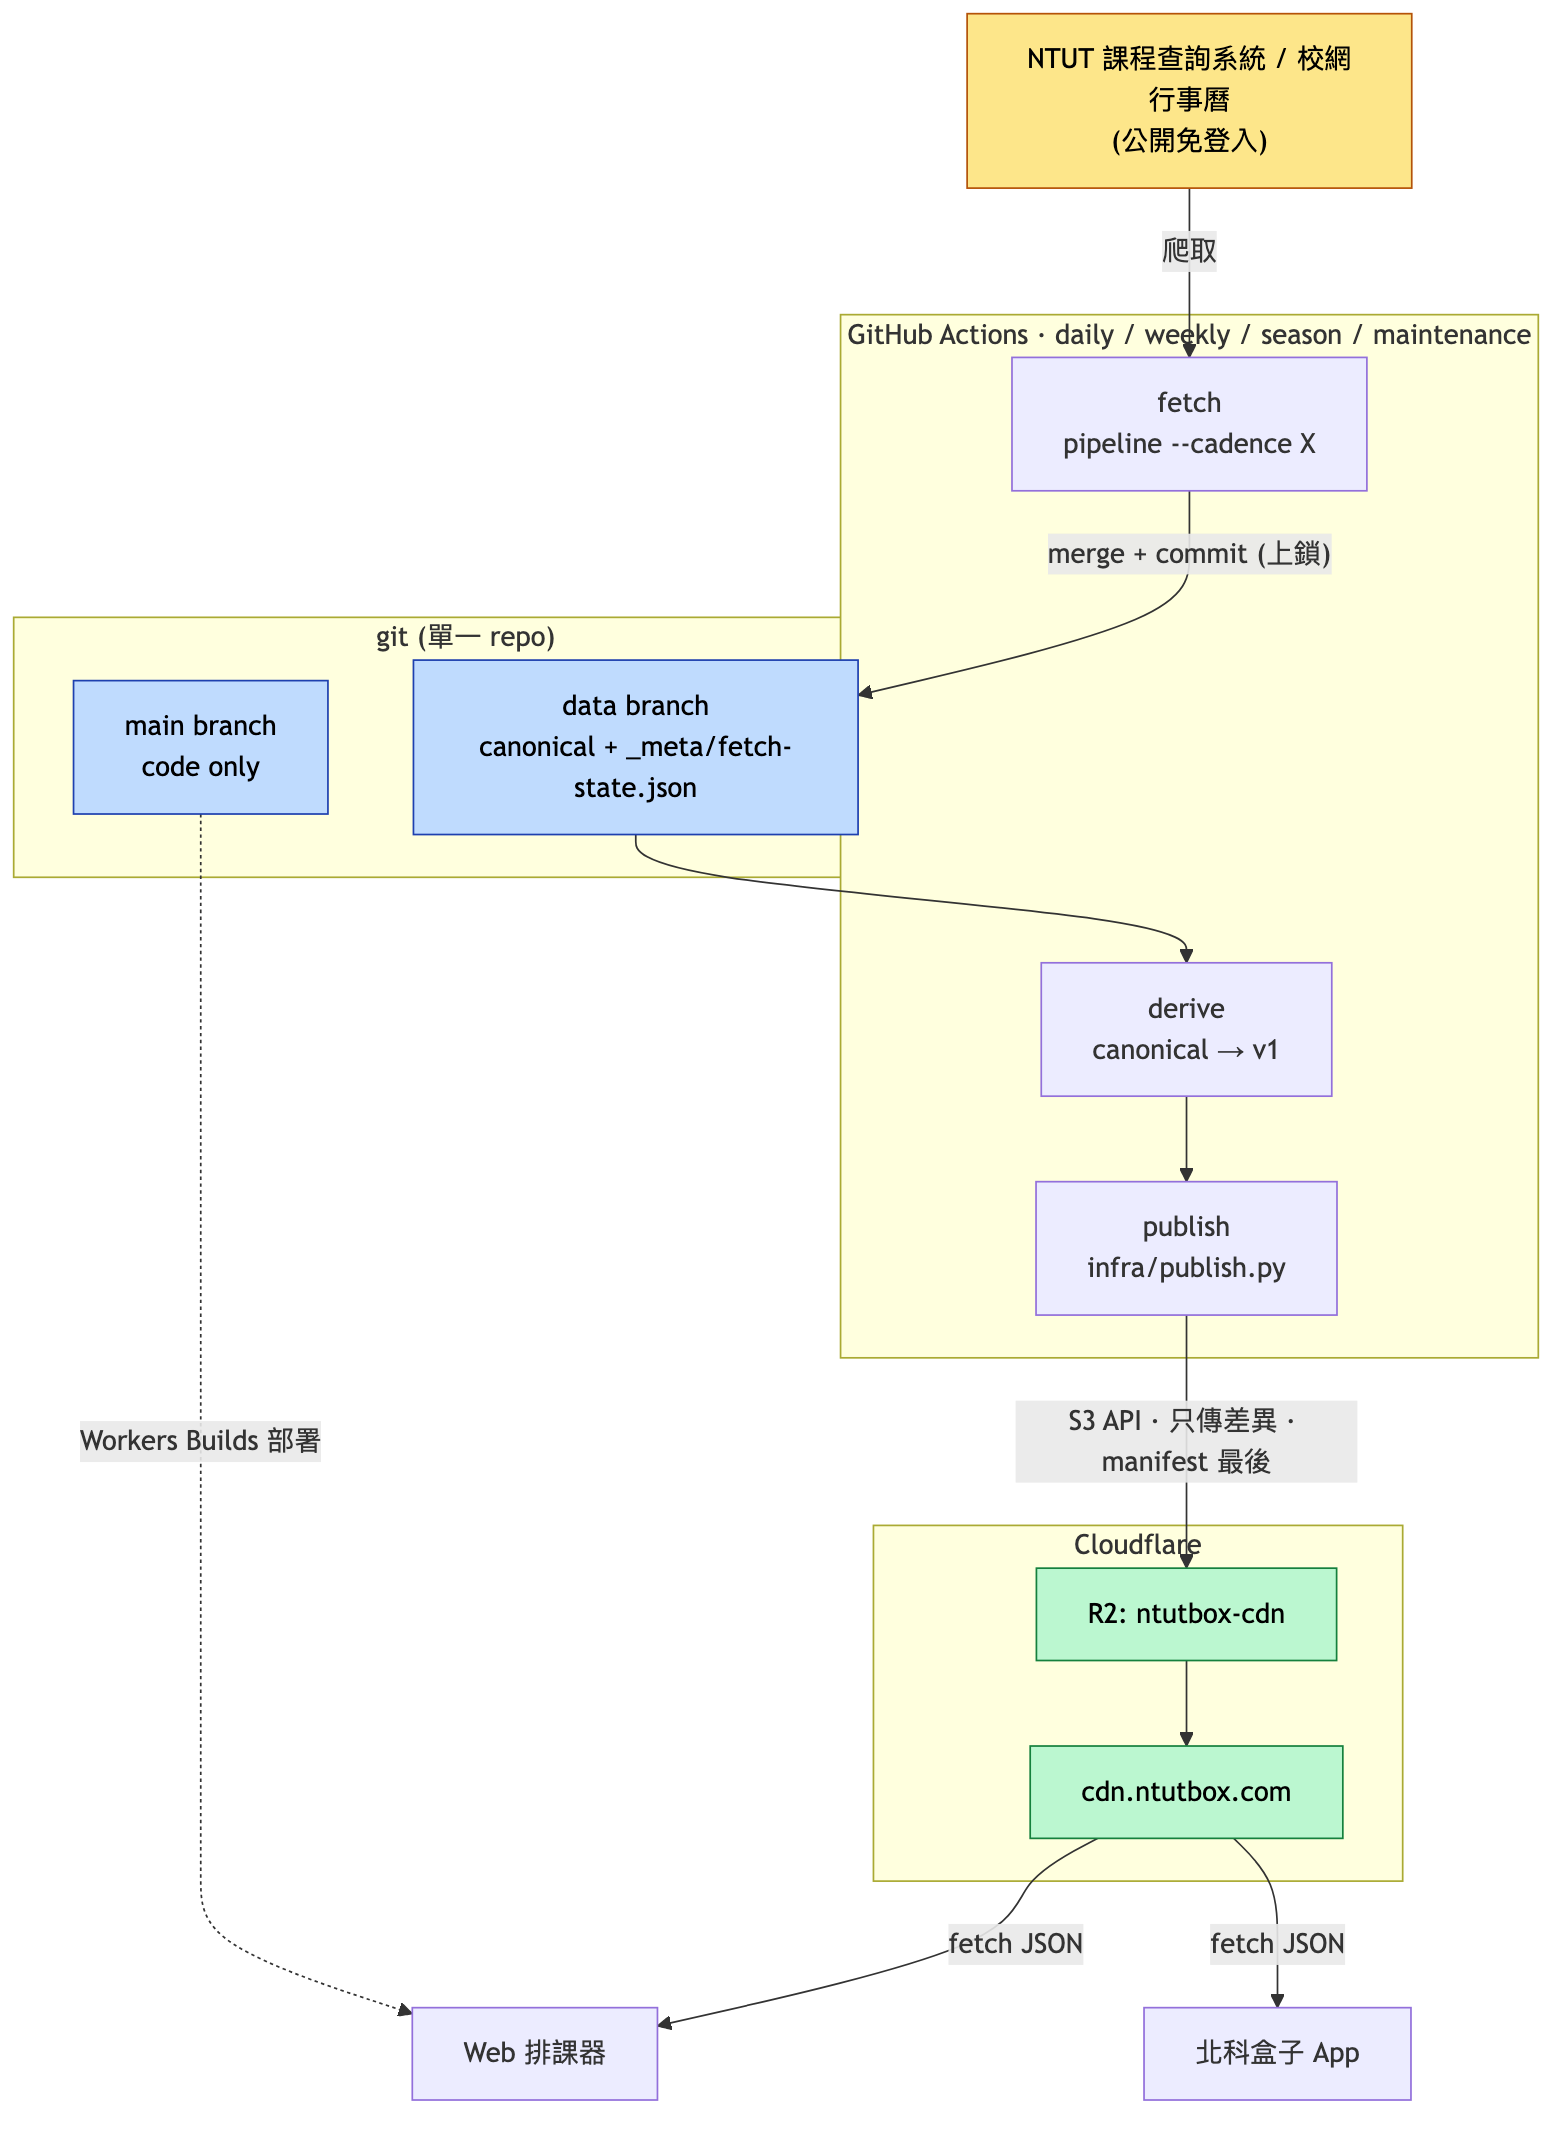
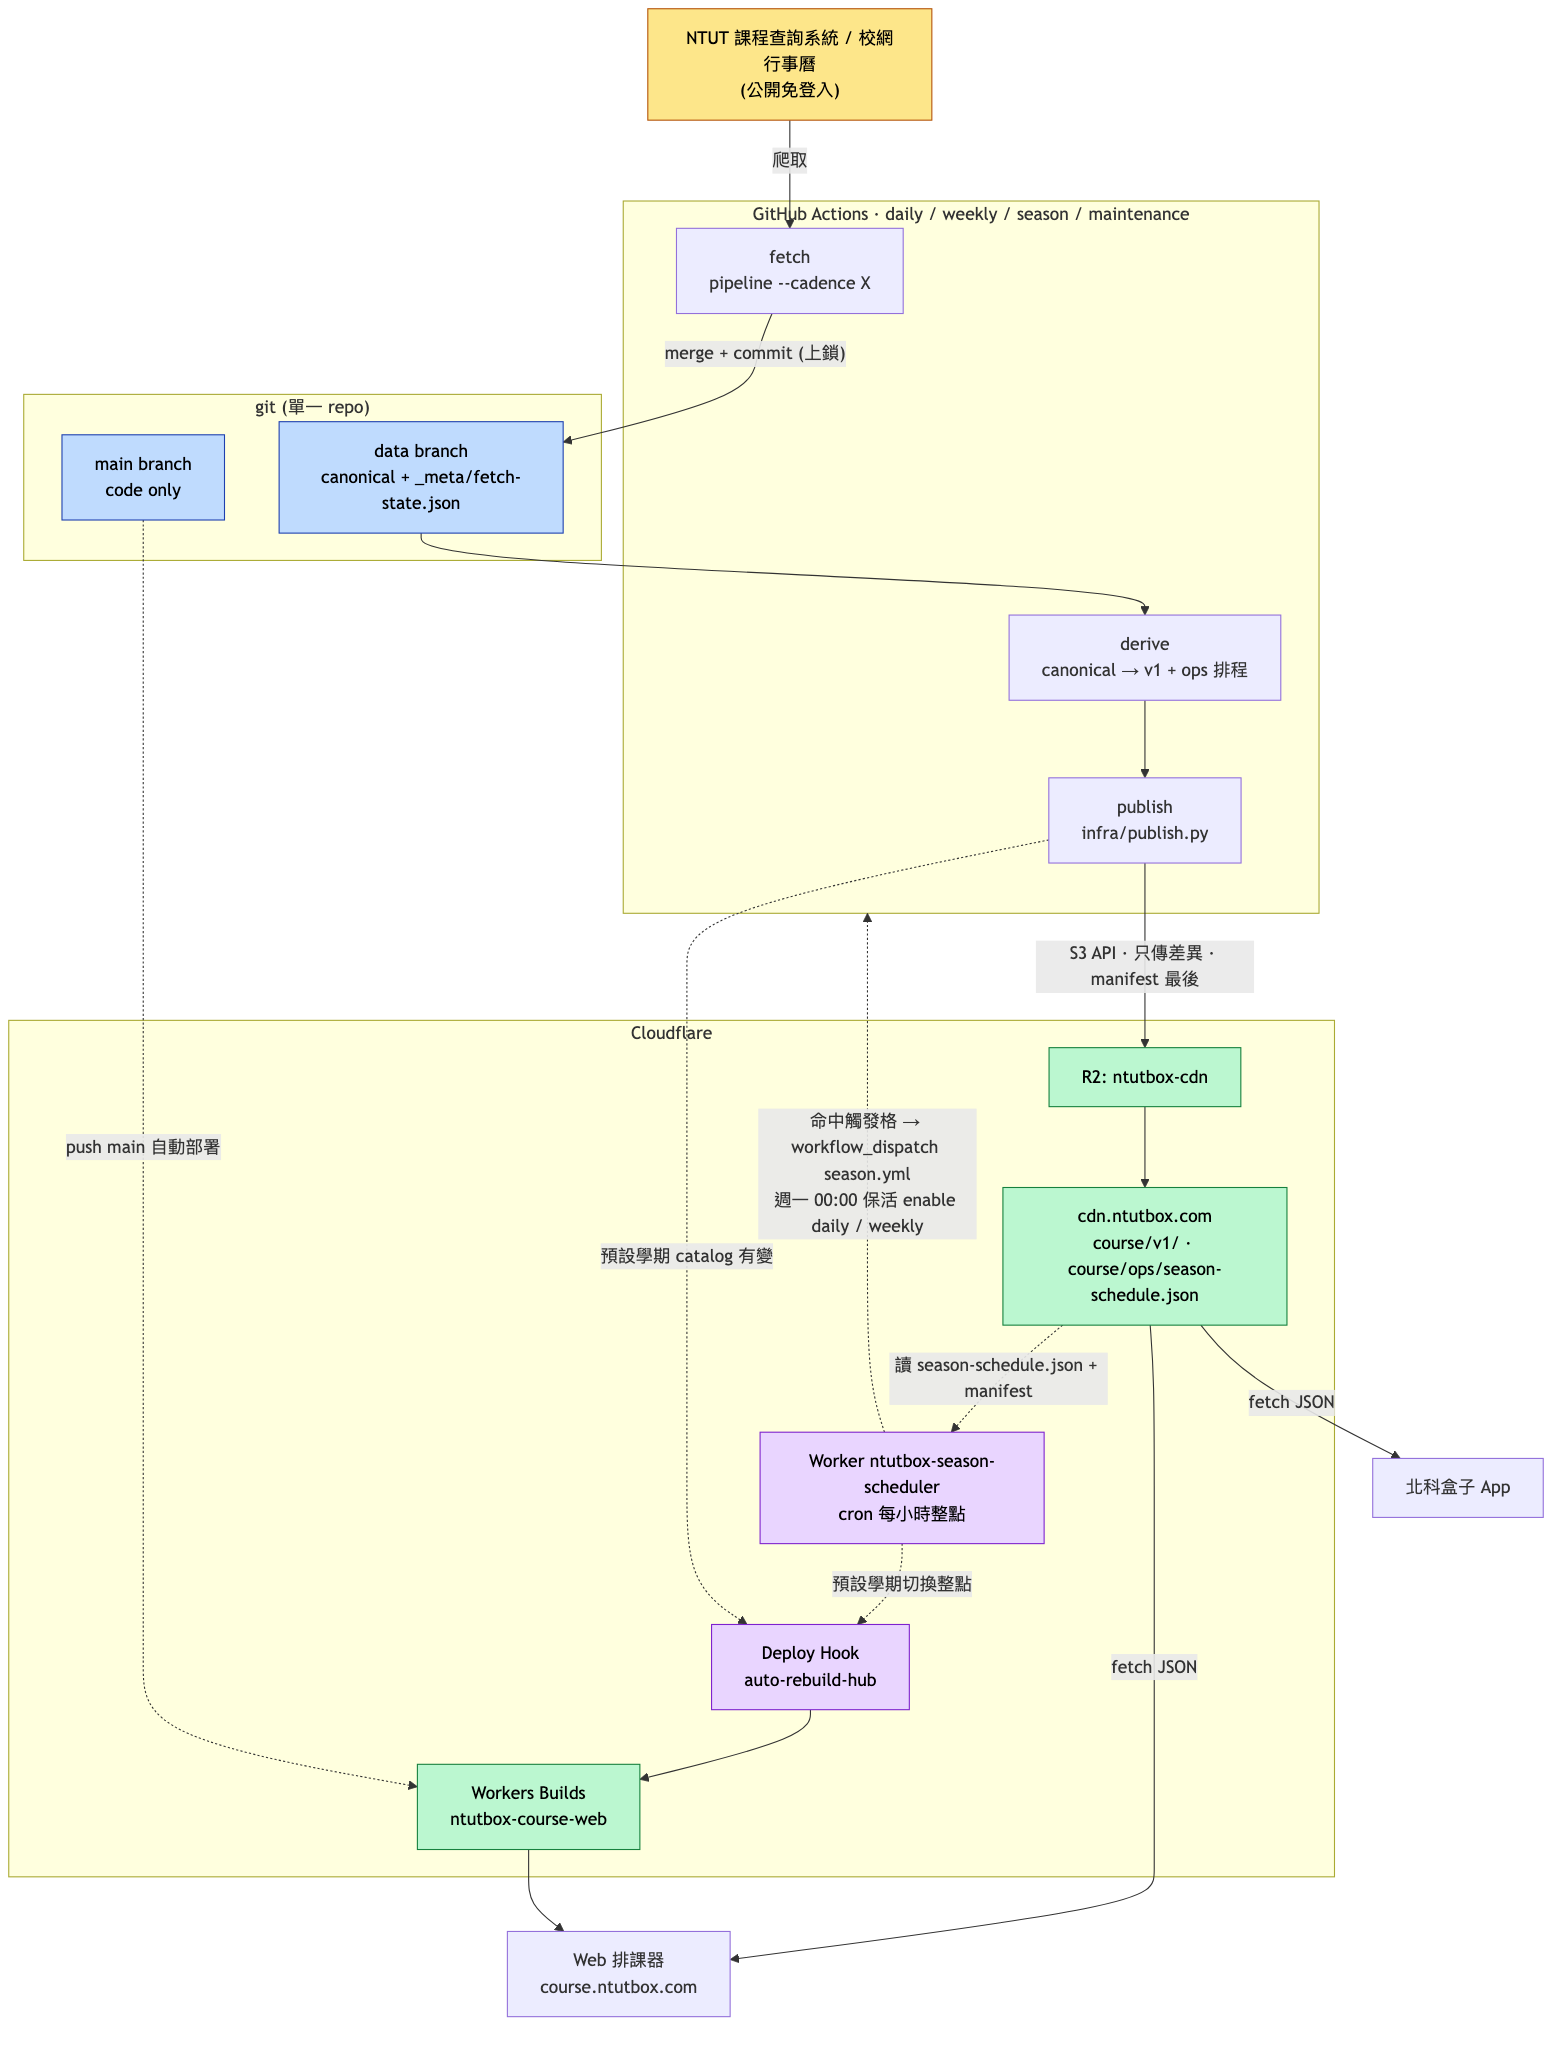
docs: 架構圖與 ARCHITECTURE 補上 season 排程 Worker、學期切換與 web 自動重建（#111–#117） (#119)
- 01-architecture：加 Worker ntutbox-season-scheduler、Deploy Hook、Workers Builds 三種觸發
- 02-pipeline：驟減檢查只對當前學期嚴格（D20）、web 重新部署步驟、daily season 檢查
- 04-crawl-logic：active 規則改為本學期 ∪ 30 天內有選課窗口的學期（D19）
- 05-two-cadences：season 由 Worker 依排程觸發、每週保活
- 新增 06-season-and-terms：行事曆窗口 → season 排程 / term_schedule → web
- ARCHITECTURE.md：新增第 6 節、secrets 表補 Deploy Hook 與 Worker secret

diff --git a/README.md b/README.md
@@ -49,7 +49,7 @@ Web（Next.js PWA · 靜態匯出 + 前端搜尋 + Service Worker）
   └─ course.ntutbox.com ── 匯出選課計畫（規劃中）→ 北科盒子 iOS App
 ```
 
-> 更多圖（每日管線、資料模型、抓取邏輯、兩種抓取節奏）見 [`docs/ARCHITECTURE.md`](docs/ARCHITECTURE.md)。
+> 更多圖（管線流程、資料模型、抓取邏輯、依頻率分的 workflow、選課季排程與學期切換）見 [`docs/ARCHITECTURE.md`](docs/ARCHITECTURE.md)。
 
 ## Monorepo 結構
 
